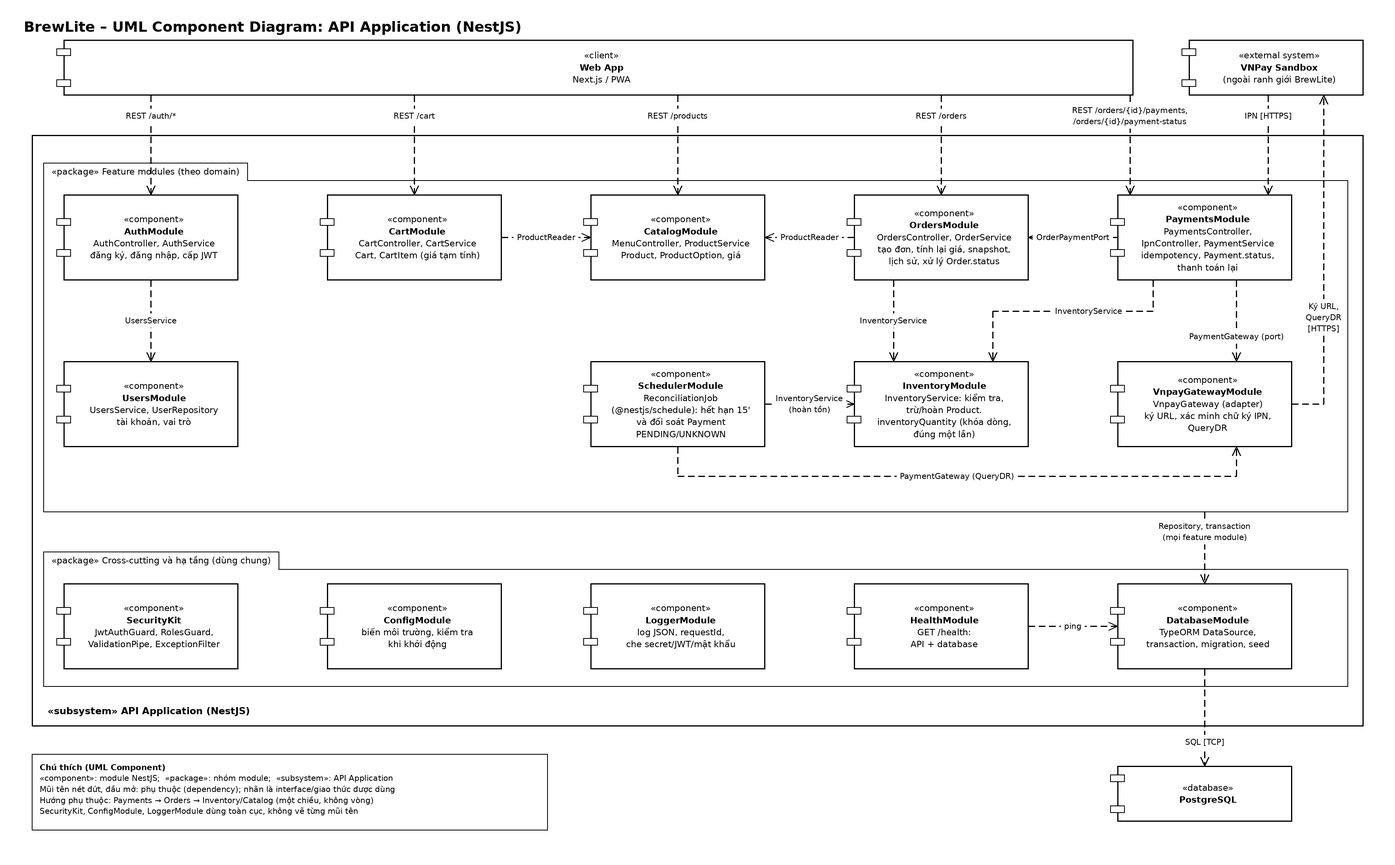
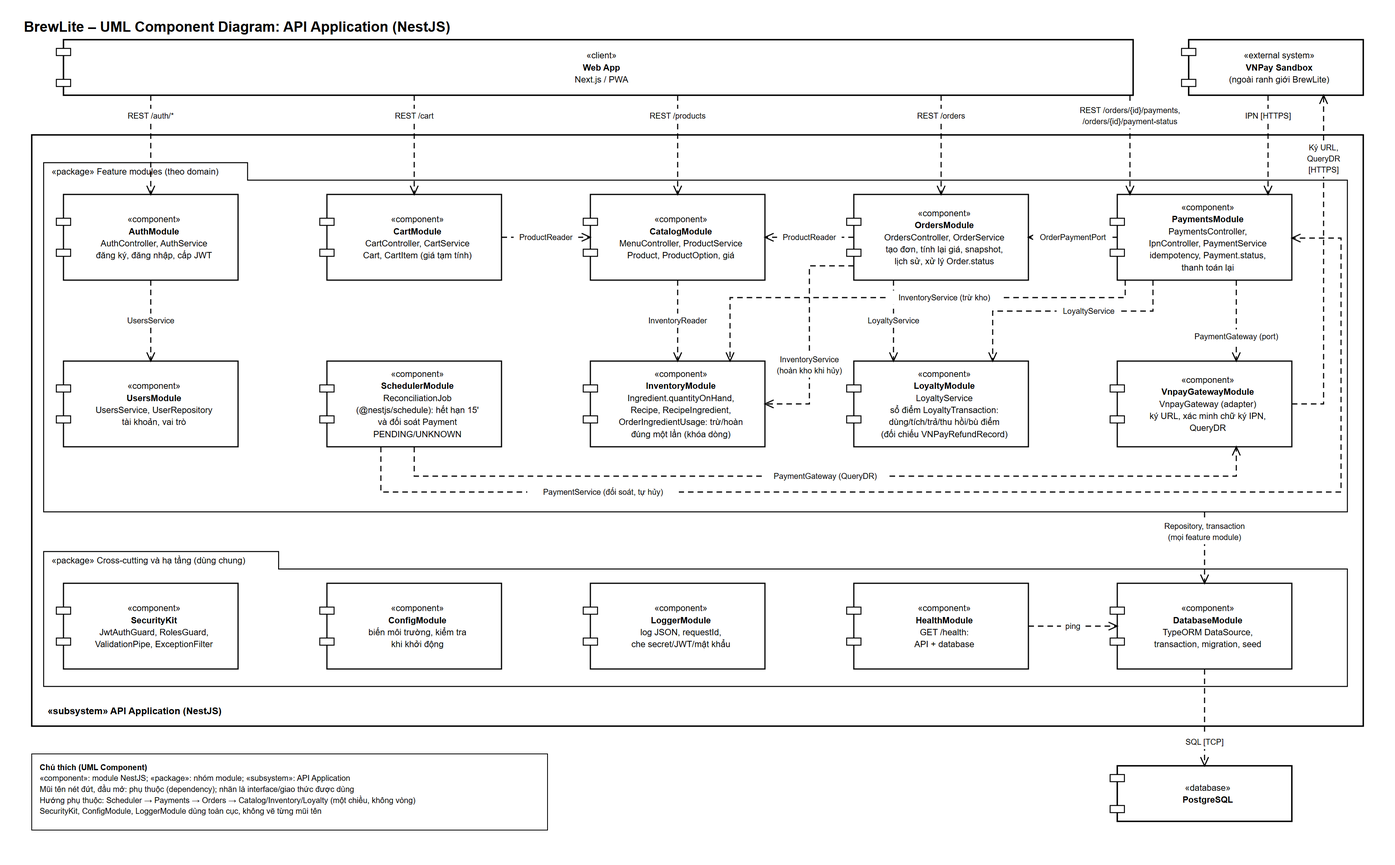
docs(task3): align architecture with approved business model

diff --git a/docs/architecture/architecture.md b/docs/architecture/architecture.md
@@ -40,7 +40,7 @@ Kiến trúc chọn là **modular monolith**: một Web App, một API (chia mod
 | :--- | :--- | :--- | :-: |
 | Web App | Next.js, React, PWA | Giao diện mobile-first, trang kết quả thanh toán (Return URL), màn hình quầy. Không chứa nghiệp vụ. | 007 |
 | API Application | NestJS, TypeScript | Toàn bộ nghiệp vụ: xác thực/phân quyền, tính giá, tồn kho, thanh toán, IPN, đối soát, health check, logging. | 002, 005, 006, 008–010 |
-| Database | PostgreSQL | Lưu User, Product, ProductOption, Cart, **CartItem**, Order, OrderItem, Payment; transaction và khóa dòng; lược đồ do migration quản lý. | 003 |
+| Database | PostgreSQL | Lưu các thực thể nghiệp vụ theo Domain Class: User/Cart, Product–Recipe–Ingredient, Order/Payment, xuất–hoàn nguyên liệu, hủy đơn và sổ điểm; transaction và khóa dòng; lược đồ do migration quản lý. | 003 |
 
 Luồng giao tiếp chính:
 1. Người dùng ↔ Web App qua HTTPS.
@@ -59,12 +59,13 @@ Triển khai chi tiết (Docker Compose, HTTPS, database không public) thuộc 
 | :--- | :--- | :--- | :--- |
 | `AuthModule` | Đăng ký, đăng nhập, cấp JWT | `UsersService` | UC-04, UC-05, UC-06; FR-04, FR-05 |
 | `UsersModule` | Tài khoản, vai trò | — | FR-04, FR-06 |
-| `CatalogModule` | Menu, chi tiết Product, ProductOption, giá | — | UC-01, UC-02; FR-01, FR-02 |
+| `CatalogModule` | Menu, Product, ProductOption và giá; Product không lưu tồn kho | `InventoryReader` (đủ nguyên liệu theo Recipe) | UC-01, UC-02; FR-01, FR-02 |
 | `CartModule` | Giỏ hàng, giá tạm tính | `ProductReader` | UC-03; FR-03 |
-| `OrdersModule` | Tạo đơn, tính lại giá từ dữ liệu hiện hành, snapshot `OrderItem`, lịch sử đơn, xử lý trạng thái `Order.status` | `ProductReader`, `InventoryModule` (trừ/hoàn `Product.inventoryQuantity`) | UC-07, UC-09 đến UC-12; FR-07, FR-12 đến FR-15 |
-| `InventoryModule` | Kiểm tra, trừ, hoàn `Product.inventoryQuantity`; khóa dòng; hoàn đúng một lần. **Không phải entity riêng** — tồn kho chỉ lưu tại `Product.inventoryQuantity` trong `ProductModule`/`CatalogModule` | — | FR-08, FR-11 |
-| `PaymentsModule` | Khởi tạo thanh toán, idempotency, IPN, thanh toán lại, đọc `Payment.status` | `OrderPaymentPort`, `InventoryModule` (hoàn `Product.inventoryQuantity`), `PaymentGateway` | UC-08; FR-09, FR-10 |
-| `SchedulerModule` | `ReconciliationJob`: xử lý hết hạn (15 phút) và đối soát `Payment` ở trạng thái `PENDING`/`UNKNOWN` | `PaymentGateway`, `InventoryModule` (hoàn `Product.inventoryQuantity`) | FR-11; NFR-09 |
+| `OrdersModule` | Tạo đơn `PENDING` không trừ nguyên liệu; snapshot `OrderItem`; state machine; hủy trước pha và ghi `OrderCancellation` | `ProductReader`, `InventoryService` (hoàn kho khi hủy), `LoyaltyService` | FR-05–FR-07, FR-15–FR-17 |
+| `InventoryModule` | Quản lý `Ingredient.quantityOnHand` (đơn vị `MeasurementUnit`), `Recipe`/`RecipeIngredient`; trừ/hoàn theo `OrderIngredientUsage`, khóa dòng và chống lặp | — | FR-10, FR-17, FR-21 |
+| `PaymentsModule` | Tạo Payment attempt, idempotency, IPN/QueryDR, thanh toán lại; điều phối transaction xử lý kết quả | `OrderPaymentPort`, `InventoryService` (trừ kho), `LoyaltyService`, `PaymentGateway` | FR-08–FR-14, FR-19, FR-20 |
+| `LoyaltyModule` | Sổ cái `LoyaltyTransaction`: dùng/tích/trả/đảo/bù điểm; kiểm tra `VNPayRefundRecord` để chống quyền lợi trùng | — | FR-10, FR-18–FR-20, FR-22 |
+| `SchedulerModule` | Đối soát Payment `PENDING`/`UNKNOWN`; tự hủy Order `PENDING`/`PAYMENT_FAILED` quá 15 phút tính từ `Order.createdAt` sau khi xác nhận không có thanh toán thành công | `PaymentGateway` (QueryDR), `PaymentService` (xử lý kết quả, tự hủy) | FR-11, FR-13; NFR-09 |
 | `VnpayGatewayModule` | Adapter VNPay: ký URL, xác minh chữ ký IPN, QueryDR | VNPay Sandbox (HTTPS) | FR-09; NFR-04 |
 | `SecurityKit` | `JwtAuthGuard`, `RolesGuard`, `ValidationPipe`, `ExceptionFilter` (toàn cục) | — | FR-06; NFR-02, NFR-03 |
 | `ConfigModule` | Biến môi trường, kiểm tra khi khởi động | — | NFR-04, NFR-07 |
@@ -72,20 +73,20 @@ Triển khai chi tiết (Docker Compose, HTTPS, database không public) thuộc 
 | `HealthModule` | `GET /health` (API + database) | `DatabaseModule` | NFR-07, NFR-09 |
 | `DatabaseModule` | TypeORM, transaction, migration, seed | PostgreSQL | NFR-07, NFR-09 |
 
-`SchedulerModule` tách riêng khỏi `PaymentsModule` để thể hiện rõ đây là một tiến trình chạy định kỳ, độc lập với vòng đời của một request HTTP, dù cùng thao tác trên entity `Payment`/`Order` qua `DatabaseModule`.
+`SchedulerModule` tách riêng khỏi `PaymentsModule` để thể hiện rõ tiến trình định kỳ độc lập với request HTTP, nhưng gọi cùng hàm xử lý kết quả thanh toán của `PaymentService` với IPN; việc tự hủy đi qua `OrderPaymentPort` để `OrdersModule` ghi `OrderCancellation` và trả điểm đã dùng.
 
-Quy tắc phụ thuộc (kiểm tra khi review): hướng một chiều và không vòng `Payments → Orders → Inventory/Catalog`, `Cart → Catalog`, `Auth → Users`, `Scheduler → VnpayGateway/Inventory/Database`. Trạng thái thanh toán được đọc qua `GET /orders/{id}/payment-status` của `PaymentsModule` nên `OrdersModule` không phụ thuộc ngược vào `PaymentsModule`.
+Quy tắc phụ thuộc: hướng một chiều và không vòng `Scheduler → Payments → Orders → Catalog/Inventory/Loyalty`, `Payments → Inventory/Loyalty/VnpayGateway`, `Catalog → Inventory`, `Cart → Catalog`, `Auth → Users`; transaction do `OrdersModule` hoặc `PaymentsModule` điều phối qua interface của Inventory/Loyalty. Trạng thái thanh toán được đọc qua API của `PaymentsModule`, nên `OrdersModule` không truy cập repository Payment.
 
 ## 5. Quyết định kiến trúc, ưu điểm, hạn chế và đánh đổi
 
 | ADR | Quyết định | Ưu điểm | Hạn chế / đánh đổi |
 | :-: | :--- | :--- | :--- |
 | [001](adr/001-monorepo.md) | Monorepo pnpm workspaces | Một PR sửa được API, UI, tài liệu; kiểu dùng chung giảm lệch hợp đồng | Cần path filter trong CI, quy ước thư mục rõ |
-| [002](adr/002-modular-monolith.md) | NestJS modular monolith | Transaction ACID cho đơn–tồn kho–thanh toán; triển khai đơn giản | Scale theo cả khối; cần kỷ luật ranh giới module |
-| [003](adr/003-postgresql-transaction-migration.md) | PostgreSQL + TypeORM, transaction nguyên tử khi trừ/hoàn tồn, migration | Chống bán vượt tồn, chống ghi trùng; lược đồ tái tạo được | Đơn cùng Product xử lý tuần tự |
+| [002](adr/002-modular-monolith.md) | NestJS modular monolith theo domain | Transaction ACID xuyên Order–Inventory–Loyalty; triển khai đơn giản | Scale theo cả khối; cần kỷ luật ranh giới module |
+| [003](adr/003-postgresql-transaction-migration.md) | PostgreSQL + TypeORM, migration và transaction nguyên tử | Chống trừ/hoàn nguyên liệu, ghi điểm và Payment trùng | Các giao dịch cùng Ingredient xử lý tuần tự |
 | [004](adr/004-vnpay-sandbox-integration.md) | VNPay Sandbox là hệ thống ngoài ranh giới BrewLite *(mở rộng – nhóm chọn tích hợp thực thay vì mock nội bộ)* | Ranh giới tin cậy rõ ràng; dễ kiểm thử bảo mật | Luồng thanh toán phụ thuộc tính sẵn sàng của VNPay |
-| [005](adr/005-return-url-ipn-idempotency.md) | Return URL chỉ hiển thị; IPN là căn cứ; idempotency theo `orderId`+`idempotencyKey` | Chống giả mạo qua trình duyệt; xử lý đúng IPN trễ/lặp/mất | Khách có thể thấy "Đang xác minh" vài phút |
-| [006](adr/006-payment-expiry-refund-stock-retry.md) | Hạn 15 phút mỗi yêu cầu, job hết hạn/đối soát `@nestjs/schedule`, hoàn tồn đúng một lần, thanh toán lại bằng yêu cầu mới | Không thêm hạ tầng; an toàn khi chạy đồng thời | Trễ tối đa một chu kỳ; phụ thuộc tiến trình API |
+| [005](adr/005-return-url-ipn-idempotency.md) | Return URL chỉ hiển thị; IPN/QueryDR xác minh; idempotency nhiều lớp | Chống giả mạo và hiệu ứng kho/điểm lặp | Khách có thể thấy "Đang xác minh" |
+| [006](adr/006-payment-expiry-refund-stock-retry.md) | Order chờ 15 phút; đối soát trước tự hủy; retry không gia hạn | Không thêm hạ tầng; xử lý an toàn kết quả đến muộn | Trễ tối đa một chu kỳ; phụ thuộc tiến trình API |
 | [007](adr/007-nextjs-pwa-frontend.md) | Next.js PWA chỉ làm giao diện | Một nơi quyết định nghiệp vụ; PWA cài được | Mỗi thao tác cần gọi API; không offline cho đặt/thanh toán |
 | [008](adr/008-vnpay-payment-gateway-adapter.md) | `PaymentGateway` port/adapter, tách khỏi `PaymentsModule` *(mở rộng – nhóm chọn tích hợp thực VNPay Sandbox)* | Dễ kiểm thử; nghiệp vụ tách khỏi giao thức VNPay | Thêm một lớp trừu tượng; IPN cần endpoint HTTPS truy cập được |
 | [009](adr/009-jwt-rbac.md) | JWT + RBAC + quyền sở hữu | Stateless; quy tắc quyền tập trung | Không thu hồi được token sớm; rủi ro XSS phía client |
@@ -135,25 +136,28 @@ Actor và use case trong tài liệu này khớp hoàn toàn với `srs.md` §3:
 
 ### 8.2. Mô hình dữ liệu (đối chiếu `domain-class.md` Task 2.3)
 
-Kiến trúc này căn theo `domain-class.md` (Task 2.3) — nguồn sự thật duy nhất cho mô hình dữ liệu:
-- **Trạng thái thanh toán** theo `PaymentStatus` của `Payment.status`: `PENDING` / `SUCCESS` / `FAILED` / `UNKNOWN` / `EXPIRED`. `Order.status` thể hiện tiến trình xử lý đơn: `PENDING_PAYMENT` / `PAID` / `PREPARING` / `READY_FOR_PICKUP` / `COMPLETED`. Hai trạng thái này **độc lập** và không lẫn nhau.
-- **Số tiền thanh toán** lưu tại `Payment.amount`. Tổng đơn lưu tại `Order.totalAmount`.
-- **Tồn kho** quản lý duy nhất qua `Product.inventoryQuantity`; size và topping (`ProductOption`) không có tồn riêng. Không có entity `Inventory` độc lập — `InventoryModule` trong kiến trúc chỉ là module chứa logic nghiệp vụ kiểm tra/trừ/hoàn `Product.inventoryQuantity`, không phải một entity riêng trong database.
-- **Không có `OrderStatus.CANCELLED`** trong domain model MVP: kiến trúc không có endpoint hay job hủy đơn. Thanh toán thất bại hoặc hết hạn được thể hiện ở `Payment.status` (`FAILED` / `EXPIRED`) kèm hoàn tồn đúng một lần (ADR-003, ADR-006); khách có thể thanh toán lại theo ADR-006.
-- **Database container** lưu đúng 8 class MVP: `User`, `Product`, `ProductOption`, `Cart`, `CartItem`, `Order`, `OrderItem`, `Payment`. `Promotion` và `LoyaltyTransaction` là `«future»`, không thuộc MVP.
+Kiến trúc căn theo Domain Class đã duyệt:
+
+- `Order.status`: `PENDING`, `PAYMENT_FAILED`, `PAYMENT_EXCEPTION`, `PAID`, `PREPARING`, `READY_FOR_PICKUP`, `COMPLETED`, `CANCELLED`.
+- `Payment.status`: `PENDING`, `SUCCEEDED`, `FAILED`, `UNKNOWN`, `EXPIRED`. Hai vòng đời độc lập; các trường kết quả Payment có thể rỗng trước khi được xác minh.
+- Order chờ tối đa 15 phút: `Order.expiresAt = Order.createdAt + 15 phút`. `Payment.expiresAt ≤ Order.expiresAt`; tạo Payment mới không kéo dài hạn Order. `PAID`/`PAYMENT_EXCEPTION` không tự hủy theo hạn.
+- Tồn kho chỉ nằm tại `Ingredient.quantityOnHand`; `Product` không lưu tồn kho. `Recipe`/`RecipeIngredient` định lượng nguyên liệu theo `MeasurementUnit`. Tạo Order không trừ kho; chỉ Payment `SUCCEEDED` đã xác minh và đủ nguyên liệu mới trừ kho và ghi `OrderIngredientUsage`.
+- Hủy trước `PREPARING` ghi `OrderCancellation`; Order `PAID` hoàn đúng lượng thực trừ. Điểm dùng/tích/trả/đảo/bù được lưu bằng `LoyaltyTransaction`; `VNPayRefundRecord` ngăn refund cũ và điểm bù trùng nhau.
+- VNPay thành công nhưng thiếu nguyên liệu: `Payment.status = SUCCEEDED`, `Order.status = PAYMENT_EXCEPTION`; không trừ kho, không `EARN`; bù `LoyaltyTransaction(VNPAY_COMPENSATION)` sau khi kiểm tra `VNPayRefundRecord`. Payment `SUCCEEDED` đến muộn sau `CANCELLED` không mở lại Order, không trừ kho, không `EARN`, chỉ bù điểm đúng một lần.
+- `Promotion` vẫn là `«future»`; `Ingredient`, `Recipe`, `RecipeIngredient`, `OrderIngredientUsage`, `OrderCancellation`, `LoyaltyTransaction` và `VNPayRefundRecord` thuộc mô hình MVP.
 
 ### 8.3. Luồng thanh toán và sơ đồ C4
 
 Các luồng sau phải thể hiện nhất quán trên cả C4 Context, C4 Container và Component diagram:
 
 1. **Return URL:** VNPay Sandbox chuyển hướng trình duyệt về `Web App` — đây **chỉ là bước hiển thị**. `Web App` lập tức gọi `GET /orders/{id}/payment-status` vào `API Application` để lấy trạng thái đã được backend xác minh. Return URL **không** quyết định trạng thái thanh toán.
-2. **IPN:** VNPay Sandbox gọi **trực tiếp** vào `API Application` (không qua `Web App`). `API Application` xác minh chữ ký, đối chiếu `transactionRef` và số tiền, cập nhật `Payment.status` và `Order.status` trong một transaction nguyên tử, rồi trả `RspCode` theo quy ước VNPay.
+2. **IPN/QueryDR:** API xác minh chữ ký, `transactionRef`, số tiền và mã kết quả, rồi gọi chung một hàm transaction. Nhánh hợp lệ đủ nguyên liệu ghi Payment `SUCCEEDED`, trừ `Ingredient.quantityOnHand`, ghi `OrderIngredientUsage`/`EARN` và Order `PAID`; thiếu nguyên liệu ghi Payment `SUCCEEDED` và Order `PAYMENT_EXCEPTION`, không trừ kho; Order đã `CANCELLED` giữ nguyên và chỉ được bù `VNPAY_COMPENSATION` đúng một lần.
 3. **VNPay Sandbox** tiếp tục nằm **ngoài ranh giới BrewLite** trên mọi sơ đồ C4.
 
 > **Ghi chú đồng bộ sơ đồ:** Tệp `.drawio` trong `docs/diagrams/sources/` là nguồn để chỉnh sửa. Sau mỗi lần cập nhật, xuất lại SVG/PNG từ Draw.io và thay thế file tương ứng trong `docs/diagrams/exports/`. Ba cặp `.drawio`/`.svg` (`c4-context`, `c4-container`, `component-api`) phải luôn mô tả cùng một kiến trúc, nhất quán với tài liệu này.
 
 ### 8.4. Đối chiếu với `sequence-checkout.md` (Task 2)
-`sequence-checkout.md` (Task 2.2) đã khớp với domain model: trạng thái thanh toán dùng `PaymentStatus` (`PENDING`, `SUCCESS`, `FAILED`, `EXPIRED`, `UNKNOWN`), không có `Order.paymentStatus` và không có nhánh chuyển đơn sang `CANCELLED`.
+Sequence Task 2.2 phải giữ tách biệt `OrderStatus` và `PaymentStatus`, dùng `SUCCEEDED`, thể hiện `PAYMENT_EXCEPTION`, kết quả đến muộn, hủy trước pha và hiệu ứng kho/điểm đúng một lần. Không dùng `Order.paymentStatus`.
 
 ### 8.5. Thông số kỹ thuật (không ảnh hưởng kiến trúc)
 

diff --git a/docs/architecture/adr/003-postgresql-transaction-migration.md b/docs/architecture/adr/003-postgresql-transaction-migration.md
@@ -1,23 +1,31 @@
-# ADR-003: PostgreSQL với TypeORM, migration bắt buộc, khóa dòng khi trừ/hoàn tồn
+# ADR-003: PostgreSQL với TypeORM, migration bắt buộc và transaction nguyên tử
 
 - **Trạng thái:** Đã chấp nhận
-- **Ngày:** 2026-11-08
-- **Liên quan:** FR-08, FR-10, FR-11; NFR-07, NFR-09; RR-03, RR-04
+- **Ngày:** 2026-11-15
+- **Liên quan:** FR-06, FR-08, FR-10, FR-17 đến FR-20; NFR-07, NFR-09
 
 ## Bối cảnh
-Hệ thống cần transaction đáng tin cậy, chống bán vượt tồn khi đặt đồng thời, chống ghi nhận trùng thanh toán và tái tạo được cấu trúc dữ liệu từ đầu (migration/seed).
+
+Hệ thống phải chống trừ/hoàn nguyên liệu và cộng/hoàn/bù điểm lặp khi IPN, QueryDR, thao tác hủy hoặc scheduler chạy đồng thời. Tồn kho được quản lý theo `Ingredient`, không còn dùng tồn kho cấp Product.
 
 ## Quyết định
-- **PostgreSQL** là nguồn dữ liệu duy nhất; **TypeORM** làm ORM; thay đổi lược đồ chỉ qua **migration** (không dùng `synchronize` ở môi trường chạy thật); có **seed** dữ liệu mẫu (Product, ProductOption, tài khoản mẫu).
-- Tạo đơn: mở transaction, khóa các dòng `Product` liên quan bằng khóa ghi (`SELECT … FOR UPDATE`, sắp theo `id` để tránh deadlock), cộng số lượng theo Product, kiểm tra tồn, lưu `Order` + `OrderItem`, trừ `inventoryQuantity`, rồi commit; thiếu tồn hoặc lỗi thì rollback toàn bộ.
-- Ràng buộc ở tầng database để bảo vệ quy tắc nghiệp vụ ngay cả khi code sai: `CHECK (inventoryQuantity >= 0)`; `UNIQUE` cho `Payment.idempotencyKey` và `Payment.transactionRef`; chỉ mục unique có điều kiện để mỗi `Order` có tối đa một `Payment` ở trạng thái `SUCCESS`.
-- Hoàn tồn "đúng một lần": chuyển `Payment` sang `FAILED`/`EXPIRED` và hoàn tồn trong **cùng transaction**, điều kiện cập nhật `WHERE status IN ('PENDING','UNKNOWN')`.
+
+- PostgreSQL là nguồn dữ liệu duy nhất; TypeORM là ORM; mọi thay đổi schema đi qua migration, không dùng `synchronize` ở môi trường chạy thật.
+- Các bảng nghiệp vụ tuân theo Domain Class đã duyệt: `User`, `Cart`, `CartItem`, `Product`, `ProductOption`, `Ingredient`, `Recipe`, `RecipeIngredient`, `Order`, `OrderItem`, `OrderIngredientUsage`, `Payment`, `OrderCancellation`, `VNPayRefundRecord`, `LoyaltyTransaction`; enum `MeasurementUnit` dùng cho `Ingredient`, `RecipeIngredient` và `OrderIngredientUsage`. `Promotion` là `«future»`.
+- **Tạo đơn:** khóa/kiểm tra dữ liệu giá và điểm, lưu `Order(PENDING)` + `OrderItem` snapshot và `expiresAt = createdAt + 15 phút`; không trừ nguyên liệu.
+- **Xử lý Payment `SUCCEEDED`:** khóa Order, Payment và các `Ingredient` theo thứ tự ổn định; trừ `quantityOnHand` có điều kiện; ghi `OrderIngredientUsage` và `LoyaltyTransaction` trong cùng transaction rồi mới chuyển Order sang `PAID`.
+- **Thiếu nguyên liệu sau khi đã thu tiền:** không trừ kho, không ghi `OrderIngredientUsage`, không `EARN`; giữ Payment `SUCCEEDED`, chuyển Order sang `PAYMENT_EXCEPTION`; bù `LoyaltyTransaction(VNPAY_COMPENSATION)` sau khi kiểm tra `VNPayRefundRecord`.
+- **Hủy Order `PAID` trước pha:** hoàn đúng `quantityDeducted` đã lưu, ghi `OrderCancellation`, điều chỉnh điểm và chống trùng bằng idempotency key. Order chưa từng xuất nguyên liệu thì không hoàn kho.
+- Ràng buộc chính: `Ingredient.quantityOnHand >= 0`; `Payment.idempotencyKey` và `transactionRef` unique; tối đa một Payment `SUCCEEDED` cho mỗi Order; `OrderIngredientUsage.quantityRestored <= quantityDeducted`; `LoyaltyTransaction.idempotencyKey` unique; khoản `VNPAY_COMPENSATION` unique theo Payment.
 
 ## Phương án đã cân nhắc
-- **Prisma:** migration tốt, nhưng khóa dòng và truy vấn khóa phải dùng raw query; TypeORM hỗ trợ khóa pessimistic và `QueryRunner` trực tiếp.
-- **Khóa lạc quan (version column):** tránh khóa dòng nhưng phải thử lại khi xung đột, phức tạp hơn cho luồng tồn kho nhiều dòng.
+
+- **Prisma:** migration tốt nhưng dự án đã chốt TypeORM và cần khóa pessimistic qua `QueryRunner`; không đổi ORM.
+- **Trừ Product khi tạo Order:** bị loại vì trái Domain Class và gây hoàn tồn giả khi Payment thất bại.
+- **Khóa lạc quan:** cần retry phức tạp với nhiều nguyên liệu.
 
 ## Hệ quả
-- **Ưu điểm:** nhất quán mạnh, kiểm thử được tình huống đặt đồng thời; lược đồ tái tạo được (NFR-07).
-- **Hạn chế:** khóa dòng làm các đơn cùng Product xử lý tuần tự (chấp nhận được ở quy mô MVP); nhóm phải viết migration cẩn thận và review kỹ.
-- **Đánh đổi:** chấp nhận xử lý tuần tự các đơn cùng Product và công sức viết migration để đổi lấy nhất quán mạnh về tồn kho và thanh toán.
+
+- **Ưu điểm:** không bán vượt tồn, không xuất/hoàn/cộng điểm hai lần, schema tái tạo được.
+- **Hạn chế:** transaction thanh toán/hủy khóa nhiều dòng và phải thống nhất thứ tự khóa.
+- **Đánh đổi:** chấp nhận xử lý tuần tự khi cùng Ingredient để đổi lấy tính nhất quán mạnh.

diff --git a/docs/architecture/adr/006-payment-expiry-refund-stock-retry.md b/docs/architecture/adr/006-payment-expiry-refund-stock-retry.md
@@ -1,24 +1,31 @@
-# ADR-006: Xử lý hết hạn thanh toán và đối soát bằng job định kỳ trong tiến trình API (@nestjs/schedule)
+# ADR-006: Hết hạn Order, đối soát Payment và thanh toán lại bằng job định kỳ
 
 - **Trạng thái:** Đã chấp nhận
-- **Ngày:** 2026-11-08
-- **Liên quan:** FR-11; NFR-09; RR-05
+- **Ngày:** 2026-11-15
+- **Liên quan:** FR-07, FR-11, FR-13, FR-17; BR-03, BR-11, BR-12; NFR-09
 
 ## Bối cảnh
-Mỗi yêu cầu thanh toán hết hạn sau 15 phút. Khi hết hạn phải kiểm tra kết quả giao dịch trước khi đổi trạng thái hoặc hoàn tồn; kết quả chưa xác định không được tự hủy hay hoàn tồn. Không có sẵn hạ tầng hàng đợi.
+
+Order ở trạng thái chờ tối đa 15 phút từ `Order.createdAt` (`Order.expiresAt = createdAt + 15 phút`). Mỗi Payment attempt có `expiresAt` riêng nhưng không vượt `Order.expiresAt`; thanh toán lại không gia hạn Order. Kết quả `PENDING`/`UNKNOWN` phải được đối soát trước khi tự hủy.
 
 ## Quyết định
-- `ReconciliationJob` (`@nestjs/schedule`, chạy mỗi phút) tìm `Payment` ở trạng thái `PENDING`/`UNKNOWN` đã quá `expiresAt`, gọi QueryDR rồi chuyển trạng thái: `SUCCESS`, `FAILED`/`EXPIRED` (hoàn tồn đúng một lần), hoặc giữ `UNKNOWN` để đối soát thủ công.
-- Kiểm tra hết hạn cũng chạy theo yêu cầu khi khách xem trạng thái hoặc bấm thanh toán lại, nên kết quả đúng ngay cả khi job chưa chạy.
-- **Hạn 15 phút cho từng yêu cầu:** mỗi `Payment` có `expiresAt` riêng, tính từ lúc tạo yêu cầu thanh toán đó.
-- **Thanh toán lại:** khi yêu cầu trước đã kết thúc không thành công (`FAILED`/`EXPIRED`) và đơn chưa có `Payment` `SUCCESS`, khách được tạo yêu cầu mới: `Payment` mới với `transactionRef`, `idempotencyKey` mới và hạn 15 phút mới; tồn kho được kiểm tra và trừ lại trong cùng transaction nếu đã hoàn trước đó (thiếu tồn thì từ chối). Không cho thanh toán lại khi yêu cầu trước còn `PENDING`/`UNKNOWN` chưa xác định, để tránh thanh toán đôi.
-- Mỗi lần xử lý khóa dòng `Payment`/`Order` (`FOR UPDATE SKIP LOCKED`) và chỉ cập nhật khi trạng thái hiện tại còn là `PENDING`/`UNKNOWN`, nên chạy trùng giữa job và yêu cầu người dùng, hoặc giữa hai instance, không gây xử lý đôi.
+
+- `ReconciliationJob` (`@nestjs/schedule`, chạy theo chu kỳ) tìm Payment `PENDING`/`UNKNOWN` cần đối soát và Order `PENDING`/`PAYMENT_FAILED` đã quá hạn.
+- Job gọi QueryDR qua `PaymentGateway`, khóa lại Order/Payment và xử lý bằng cùng hàm của `PaymentService` với IPN.
+- Chỉ tự hủy khi không có Payment `SUCCEEDED` và không còn Payment `PENDING`/`UNKNOWN`: ghi `OrderCancellation(isAutomatic = true)`, trả điểm đã dùng bằng `LoyaltyTransaction(RETURN_REDEEMED)` nếu có; không hoàn kho vì Order chưa thanh toán chưa từng trừ nguyên liệu.
+- Không tự hủy Order `PAID` hoặc `PAYMENT_EXCEPTION` theo mốc 15 phút.
+- Có thể tạo Payment mới khi attempt trước đã `FAILED`/`EXPIRED`, Order chưa hết hạn và chưa có `SUCCEEDED`; attempt mới không kéo dài hạn Order.
+- Kết quả `SUCCEEDED` xác minh được sau hạn vẫn phải xử lý theo trạng thái Order hiện tại: Order còn chờ → `PAID` hoặc `PAYMENT_EXCEPTION`; Order đã `CANCELLED` → giữ `CANCELLED`, không trừ kho, không `EARN`, bù `LoyaltyTransaction(VNPAY_COMPENSATION)` đúng một lần sau khi kiểm tra `VNPayRefundRecord`.
+- Mỗi lượt xử lý dùng khóa dòng (`FOR UPDATE`/`SKIP LOCKED`) và idempotency để job, IPN, QueryDR và thao tác người dùng không tạo hiệu ứng trùng.
 
 ## Phương án đã cân nhắc
-- **BullMQ + Redis:** có retry, trì hoãn theo từng job, nhưng thêm một dịch vụ phải vận hành.
-- **pg_cron/cron của hệ điều hành:** tách khỏi ứng dụng nhưng khó đưa vào Docker Compose và khó kiểm thử.
+
+- BullMQ + Redis: có retry/delay tốt nhưng thêm hạ tầng ngoài phạm vi.
+- Hủy ngay khi hết 15 phút mà không QueryDR: bị loại vì có thể hủy đơn đã thu tiền.
+- Chỉ dựa vào IPN: bị loại vì IPN có thể mất.
 
 ## Hệ quả
-- **Ưu điểm:** không thêm hạ tầng; logic nằm cùng code và test; an toàn khi chạy đồng thời nhờ khóa dòng và điều kiện trạng thái.
-- **Hạn chế:** độ trễ tối đa khoảng một chu kỳ job; job dừng khi API dừng (được bù bằng kiểm tra theo yêu cầu và khi khởi động lại); mở rộng nhiều instance cần giữ nguyên cơ chế khóa.
-- **Đánh đổi:** chấp nhận độ trễ tối đa một chu kỳ job (được bù bằng kiểm tra theo yêu cầu) thay vì thêm hạ tầng hàng đợi (BullMQ/Redis).
+
+- **Ưu điểm:** không thêm hạ tầng; Order hết hạn an toàn; thanh toán lại không kéo dài thời gian giữ đơn.
+- **Hạn chế:** job dừng khi API dừng; kết quả có thể trễ tối đa một chu kỳ.
+- **Đánh đổi:** chấp nhận độ trễ nhỏ để đổi lấy đối soát an toàn và tránh thu tiền/hủy sai.

diff --git a/docs/architecture/adr/005-return-url-ipn-idempotency.md b/docs/architecture/adr/005-return-url-ipn-idempotency.md
@@ -1,22 +1,30 @@
-# ADR-005: Return URL chỉ dùng để hiển thị; IPN đã xác minh là căn cứ duy nhất; idempotency theo `orderId` + `idempotencyKey`
+# ADR-005: Return URL chỉ hiển thị; IPN/QueryDR được xác minh; idempotency nhiều lớp
 
 - **Trạng thái:** Đã chấp nhận
-- **Ngày:** 2026-11-08
-- **Liên quan:** FR-09 đến FR-11; NFR-04, NFR-09; QD-02, QD-03; RR-04
+- **Ngày:** 2026-11-15
+- **Liên quan:** FR-08 đến FR-13, FR-19, FR-20; NFR-04, NFR-09
 
 ## Bối cảnh
-Khách được chuyển hướng về Web App qua Return URL sau khi thao tác trên VNPay Sandbox, nhưng tham số trên Return URL đi qua trình duyệt của khách nên có thể bị sửa hoặc giả mạo. VNPay cũng có thể gửi IPN chậm, gửi lặp lại, hoặc không gửi được tới API.
+
+Return URL đi qua trình duyệt nên có thể bị sửa. IPN có thể chậm, mất hoặc gửi lặp; IPN và QueryDR cũng có thể xử lý đồng thời. Một Order có thể có nhiều Payment attempt nhưng chỉ một kết quả thành công hợp lệ.
 
 ## Quyết định
-- **Return URL chỉ để điều hướng/hiển thị**: khi khách quay về, trang Return URL của Web App gọi `GET /orders/{id}/payment-status` để lấy trạng thái đã được backend xác minh; không đọc tham số trên chính URL làm bằng chứng thanh toán (xem thêm ADR-007).
-- **IPN hợp lệ (đã xác minh chữ ký) là căn cứ chính** để cập nhật trạng thái `Payment`; khi IPN chậm hoặc chưa tới, hệ thống chủ động dùng QueryDR để đối soát (ADR-004, ADR-008).
-- **Idempotency**: mỗi yêu cầu thanh toán có `transactionRef` và `idempotencyKey` riêng, gắn với cặp (`orderId`, `idempotencyKey`). IPN đến trùng, hoặc đến sau khi `Payment` đã ở trạng thái cuối (`SUCCESS`/`FAILED`/`EXPIRED`), sẽ không được cập nhật lần hai. Ràng buộc `UNIQUE` ở tầng database cho `idempotencyKey` và `transactionRef` (ADR-003) ngăn ghi trùng ngay cả khi logic ứng dụng có sai sót.
+
+- Return URL chỉ điều hướng/hiển thị; Web App đọc trạng thái đã lưu từ API, không dùng tham số Return URL để ghi `PAID`.
+- Backend chỉ chấp nhận kết quả sau khi xác minh chữ ký, `transactionRef`, số tiền và response/status code. IPN và QueryDR gọi chung một hàm xử lý kết quả.
+- Cùng `Idempotency-Key` và cùng payload trả lại Payment trước; cùng key nhưng khác payload trả conflict. `idempotencyKey` và `transactionRef` được bảo vệ bằng unique constraint.
+- IPN/QueryDR lặp hoặc đồng thời không được trừ nguyên liệu, ghi `OrderIngredientUsage`, ghi điểm hoặc bù điểm lần hai.
+- `PENDING`/`UNKNOWN` không được suy diễn thành thất bại và chặn tạo Payment mới cho đến khi đối soát.
+- Payment `SUCCEEDED` hợp lệ nhưng thiếu nguyên liệu: Payment giữ `SUCCEEDED`, Order chuyển `PAYMENT_EXCEPTION`, không trừ kho, không `EARN`.
+- Payment `SUCCEEDED` đến khi Order đã `CANCELLED`: Payment ghi `SUCCEEDED` nhưng không mở lại đơn, không trừ kho, không `EARN`; bù `LoyaltyTransaction(VNPAY_COMPENSATION)` đúng một lần sau khi kiểm tra `VNPayRefundRecord`.
 
 ## Phương án đã cân nhắc
-- **Tin tưởng tham số trên Return URL để quyết định trạng thái đơn:** nhanh, ít việc, nhưng giả mạo được qua trình duyệt, vi phạm trực tiếp QD-03.
-- **Chỉ dựa vào IPN, không dùng QueryDR đối soát:** nếu IPN không bao giờ tới, đơn hàng kẹt vĩnh viễn ở trạng thái "đang xác minh".
-- **Idempotency theo khoảng thời gian (time window) thay vì khóa duy nhất:** vẫn có thể xử lý trùng khi xảy ra race condition giữa IPN và QueryDR.
+
+- Tin Return URL: bị loại vì có thể giả mạo.
+- Chỉ dựa vào IPN: bị loại vì mất IPN làm đơn kẹt.
+- Idempotency theo time window: không chống được race condition.
 
 ## Hệ quả
-- **Ưu điểm:** Chống giả mạo kết quả thanh toán qua thao tác ở trình duyệt; xử lý đúng khi IPN đến trễ, lặp hoặc mất; kịch bản kiểm thử rõ ràng (gửi IPN trùng, gửi IPN sau khi đã hết hạn, gửi IPN với chữ ký sai).
-- **Hạn chế / đánh đổi:** Khách có thể thấy trạng thái "Đang xác minh" trong vài giây đến vài phút nếu IPN chậm; cần thiết kế UI/UX rõ cho trạng thái chờ này (NFR-06).
+
+- **Ưu điểm:** an toàn với callback trùng/mất/đến muộn; hiệu ứng kho và điểm đúng một lần.
+- **Hạn chế:** khách có thể thấy trạng thái đang xác minh; cần QueryDR và UI phân biệt `PENDING`/`UNKNOWN`.

diff --git a/docs/architecture/adr/002-modular-monolith.md b/docs/architecture/adr/002-modular-monolith.md
@@ -1,25 +1,39 @@
 # ADR-002: Backend NestJS theo kiến trúc modular monolith, chia module theo domain
 
 - **Trạng thái:** Đã chấp nhận
-- **Ngày:** 2026-11-08
-- **Liên quan:** FR-07, FR-08, FR-10, FR-11; NFR-09
+- **Ngày:** 2026-11-15
+- **Liên quan:** FR-05 đến FR-22; NFR-04, NFR-09
 
 ## Bối cảnh
-Luồng cốt lõi (tạo đơn, trừ tồn, ghi nhận thanh toán, hoàn tồn) phải **nguyên tử**: đơn, snapshot, tồn kho và trạng thái thanh toán hoặc cùng thành công hoặc cùng rollback. BrewLite chỉ phục vụ một cửa hàng, quy mô MVP khoảng 20 người dùng đồng thời (NFR-01), nhóm phát triển nhỏ.
+
+Các giao dịch tạo đơn, xử lý kết quả thanh toán, trừ/hoàn nguyên liệu và ghi sổ điểm phải nhất quán trong cùng PostgreSQL. BrewLite chỉ phục vụ một cửa hàng, nhóm phát triển nhỏ; tách microservice sẽ làm tăng độ phức tạp của transaction phân tán mà không đem lại lợi ích tương xứng.
 
 ## Quyết định
-Một ứng dụng NestJS (một process, một database) chia thành module theo domain: `Auth`, `Users`, `Catalog`, `Cart`, `Orders`, `Inventory`, `Payments`, `VnpayGateway`, cùng các module hạ tầng (`Config`, `Logger`, `Health`, `Database`).
+
+Một ứng dụng NestJS (một process, một database) được chia theo domain:
+
+- `Auth`, `Users`, `Catalog`, `Cart`, `Orders`;
+- `Inventory` quản lý `Ingredient.quantityOnHand` (nơi duy nhất lưu tồn kho), `Recipe`, `RecipeIngredient` (đơn vị `MeasurementUnit`) và `OrderIngredientUsage`;
+- `Payments` và `VnpayGateway`;
+- `Loyalty` quản lý `LoyaltyTransaction` và bù điểm;
+- `Scheduler` kích hoạt đối soát và hết hạn qua `PaymentService`;
+- các module hạ tầng `Config`, `Logger`, `Health`, `Database`.
 
 Quy tắc:
-1. Mỗi module có controller – service – repository của riêng nó; module khác chỉ gọi qua service/interface được export, không truy cập repository của nhau.
-2. Hướng phụ thuộc một chiều, không vòng: `Payments → Orders → Inventory/Catalog`; `Cart → Catalog`; `Auth → Users`.
-3. Transaction nghiệp vụ nằm trong service điều phối (`OrderService`, `PaymentService`) và dùng chung một `EntityManager`.
+
+1. Module khác chỉ gọi qua service/interface được export, không truy cập repository nội bộ.
+2. `OrderService` điều phối tạo/hủy đơn; `PaymentService` điều phối xử lý kết quả thanh toán. Các service dùng chung một TypeORM `EntityManager` khi tham gia cùng transaction.
+3. Tạo Order chỉ snapshot sản phẩm, lựa chọn và giá; **không trừ hoặc giữ nguyên liệu**.
+4. Chỉ Payment `SUCCEEDED` đã xác minh mới được phép kích hoạt transaction trừ `Ingredient.quantityOnHand`, ghi `OrderIngredientUsage`, ghi điểm `EARN` và chuyển Order sang `PAID`. Nếu thiếu nguyên liệu, Payment vẫn `SUCCEEDED` và Order chuyển `PAYMENT_EXCEPTION`.
+5. `PromotionModule` vẫn là `«future»`; không đưa vào MVP.
 
 ## Phương án đã cân nhắc
-- **Microservices (Order, Payment, Inventory riêng):** cần giao dịch phân tán/saga cho thao tác trừ và hoàn tồn, quá phức tạp so với phạm vi MVP.
-- **Phân lớp theo kỹ thuật (controllers/, services/, repositories/):** dễ bắt đầu nhưng các domain lẫn vào nhau, khó thấy ranh giới và khó tách sau này.
+
+- **Microservices:** cần saga/outbox cho Order–Inventory–Loyalty, quá phức tạp cho MVP.
+- **Phân lớp thuần kỹ thuật:** dễ tạo import vòng và làm mờ ranh giới nghiệp vụ.
 
 ## Hệ quả
-- **Ưu điểm:** transaction ACID trong một database; triển khai đơn giản (một image API); ranh giới module rõ nên sau MVP có thể tách riêng nếu cần.
-- **Hạn chế:** scale theo cả khối chứ không theo module; kỷ luật phụ thuộc giữa module phải được kiểm tra khi review (có thể thêm lint rule chặn import vòng).
-- **Đánh đổi:** nhường khả năng scale và triển khai độc lập từng module để có transaction ACID đơn giản; ranh giới module được giữ bằng quy ước và review thay vì bằng ranh giới mạng.
+
+- **Ưu điểm:** transaction ACID đơn giản, triển khai một API image, test luồng nghiệp vụ thuận lợi.
+- **Hạn chế:** scale theo cả khối; ranh giới module phải được giữ bằng review/lint.
+- **Đánh đổi:** không triển khai độc lập từng module để đổi lấy tính nhất quán mạnh và vận hành đơn giản.

diff --git a/docs/architecture/adr/README.md b/docs/architecture/adr/README.md
@@ -7,11 +7,11 @@ ADR-001 đến ADR-006 là các quyết định được nêu trực tiếp tron
 | ADR | Quyết định | Trạng thái |
 | :-: | :--- | :--- |
 | [001](001-monorepo.md) | Monorepo (pnpm workspaces) cho web, API và mã dùng chung | Đã chấp nhận |
-| [002](002-modular-monolith.md) | NestJS modular monolith, chia module theo domain | Đã chấp nhận |
-| [003](003-postgresql-transaction-migration.md) | PostgreSQL + TypeORM, transaction nguyên tử khi trừ/hoàn tồn, migration | Đã chấp nhận |
+| [002](002-modular-monolith.md) | NestJS modular monolith, chia module Order–Inventory–Payment–Loyalty theo domain | Đã chấp nhận |
+| [003](003-postgresql-transaction-migration.md) | PostgreSQL + TypeORM, transaction nguyên tử cho nguyên liệu/điểm/thanh toán, migration | Đã chấp nhận |
 | [004](004-vnpay-sandbox-integration.md) | VNPay Sandbox là hệ thống ngoài ranh giới BrewLite *(mở rộng)* | Đã chấp nhận |
-| [005](005-return-url-ipn-idempotency.md) | Return URL chỉ hiển thị; IPN là căn cứ xác nhận; idempotency theo `orderId` + `idempotencyKey` | Đã chấp nhận |
-| [006](006-payment-expiry-refund-stock-retry.md) | Hạn 15 phút mỗi yêu cầu thanh toán, hoàn tồn đúng một lần, cho thanh toán lại | Đã chấp nhận |
+| [005](005-return-url-ipn-idempotency.md) | Return URL chỉ hiển thị; IPN/QueryDR được xác minh; idempotency nhiều lớp | Đã chấp nhận |
+| [006](006-payment-expiry-refund-stock-retry.md) | Order chờ 15 phút; đối soát trước tự hủy; retry không gia hạn Order | Đã chấp nhận |
 | [007](007-nextjs-pwa-frontend.md) | Next.js PWA chỉ làm giao diện, nghiệp vụ ở API | Đã chấp nhận |
 | [008](008-vnpay-payment-gateway-adapter.md) | Tích hợp VNPay qua `PaymentGateway` (port/adapter), tách khỏi `PaymentsModule` *(mở rộng)* | Đã chấp nhận |
 | [009](009-jwt-rbac.md) | JWT + RBAC + kiểm tra quyền sở hữu | Đã chấp nhận |
